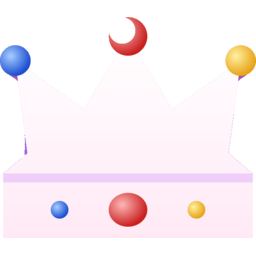
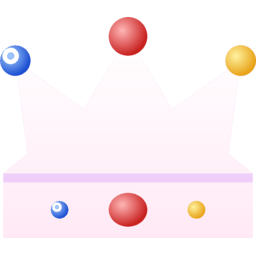
Fix chipped gems on the crown; tighten copy; drop chumlord-repo links
- icon.png: redo cutout with two-pass approach (fuzz-15% floodfill +
  fuzz-22% color-keyed transparent) so the top red, blue, and yellow
  gems stay intact instead of being eaten by the floodfill.
- index.html: status section now reads "Coming soon to the iOS App
  Store"; remove the GitHub source link from the footer.
- support.html: drop the source link from the footer.
- README.md: drop the link to the (private) chumlord repo.

diff --git a/index.html b/index.html
@@ -49,9 +49,7 @@
     <section class="status">
       <h2>Status</h2>
       <p>
-        Built by one person as a side project. Not on the App Store yet.
-        If you want to try it, the source is on
-        <a href="https://github.com/morelandjs/chumlord">GitHub</a>.
+        Built by one person as a side project. Coming soon to the iOS App Store.
       </p>
     </section>
   </main>
@@ -60,8 +58,6 @@
     <a href="privacy.html">Privacy</a>
     <span>·</span>
     <a href="support.html">Support</a>
-    <span>·</span>
-    <a href="https://github.com/morelandjs/chumlord">Source</a>
   </footer>
 </body>
 </html>

diff --git a/support.html b/support.html
@@ -41,8 +41,6 @@
     <a href="privacy.html">Privacy</a>
     <span>·</span>
     <a href="support.html">Support</a>
-    <span>·</span>
-    <a href="https://github.com/morelandjs/chumlord">Source</a>
   </footer>
 </body>
 </html>

diff --git a/README.md b/README.md
@@ -1,7 +1,6 @@
 # chumlord-site
 
-Public landing page for [Chumlord](https://github.com/morelandjs/chumlord) — a
-minimalistic friend-catchup tracker for iOS.
+Public landing page for Chumlord — a minimalistic friend-catchup tracker for iOS.
 
 Hosted via GitHub Pages from the `main` branch root:
 **https://morelandjs.github.io/chumlord-site/**